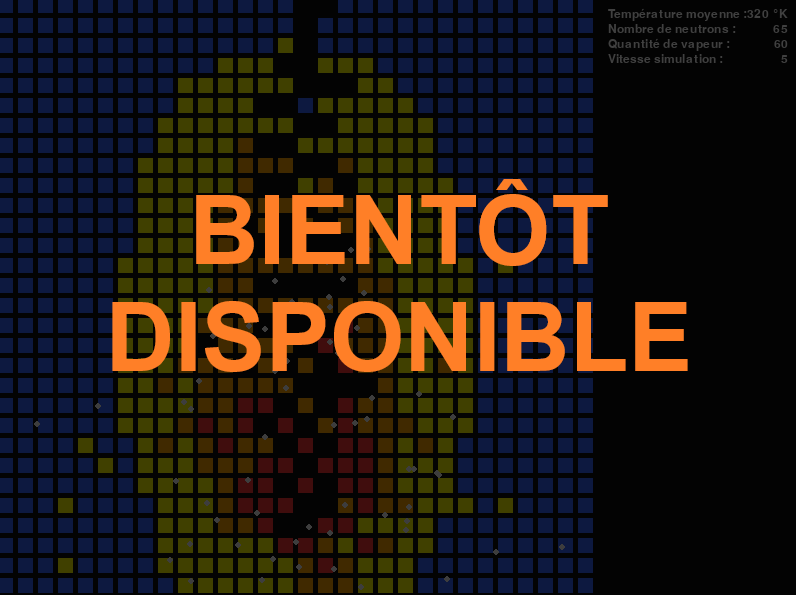
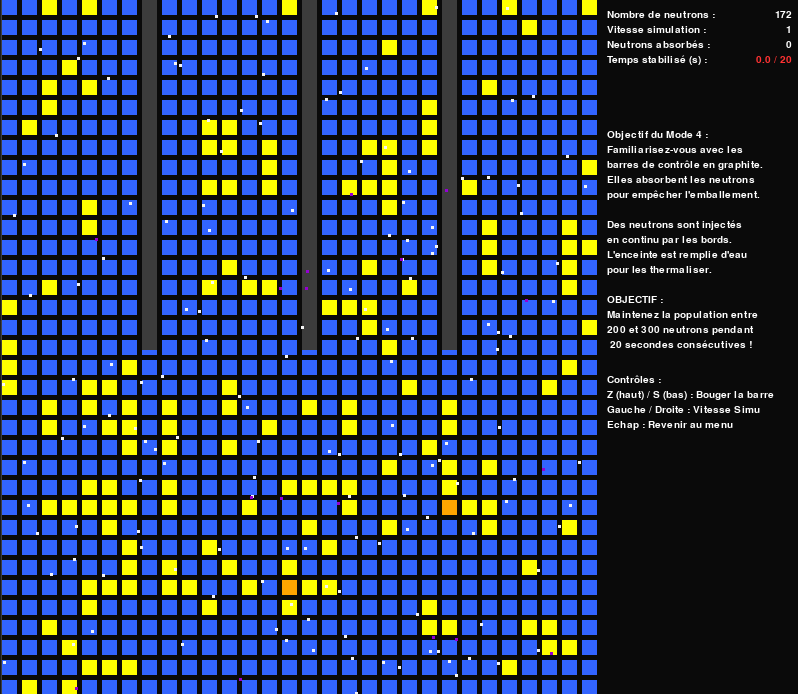
feat: add mode 4 image, change boundaries behaviour. Add control rods to mode 4

diff --git a/projnum-game/mode4.py b/projnum-game/mode4.py
@@ -114,6 +114,30 @@ class Mode4StateModel(ModeStateModel):
     water_grid: NDArray
     neutrons: Neutrons
     sim_speed: int
+    
+    # ===== Helpers =====
+    def raiseGasBubble(self):
+        for i in range(cols):
+            for j in range(rows):
+                if self.water_grid[i, j, 0] >= T_ev: #Si la case contient de la vapeur
+                    if (j > 0 and self.water_grid[i, j-1, 0] < T_ev):
+                        self.water_grid[i, j, 1] += 1 #On incrémente le compteur
+                        if (self.water_grid[i, j, 1] >= beta):
+                            tmp = self.water_grid[i, j-1, 0]
+                            self.water_grid[i, j-1, 0] = self.water_grid[i, j, 0]
+                            self.water_grid[i, j, 0] = tmp
+                            self.water_grid[i, j-1, 1] = 0
+                            self.water_grid[i, j, 1] = 0
+                    else:
+                        self.water_grid[i, j, 1] = 0
+
+    def handleHeatTransfer(self):
+        handleHeatTransfer(self.water_grid[:, :, 0]) #On gère le transfert de chaleur dans la grille
+
+        mask = (self.water_grid[:, :, 0] - dT_p) > T_min_p #On vérifie la condition, on stocke dans un masque bool
+        self.water_grid[:, :, 0][mask] -= dT_p #On enlève \Delta T quand c'est vérifié
+        # n_ref = np.sum(mask) #On compte le nombre d'éléments où c'est bon
+        # self.E_utile += n_ref*eta_p*m_eau*C_me*dT_p
 
     # ====== Main functions ======
 
@@ -131,17 +155,17 @@ class Mode4StateModel(ModeStateModel):
         #Paramètres de la barre de contrôle
         self.rod_w = cell_size - border
         self.rod_h = height
-        self.rod_x = (cols // 2) * cell_size #On la place au milieu de l'écran
-        self.rod_y = -height // 2 #On laisse la moitiée sortie au début
+        self.rod_x_positions = [
+            (cols // 4) * cell_size,
+            (cols // 2) * cell_size,
+            (3 * cols // 4) * cell_size
+        ]
+        self.rod_y = [-height//2, -height//2, -height//2] #On laisse la moitiée sortie au début
         self.abs_count = 0
 
         #Paramètres des sources de neutrons
-        self.n_per_sec = 50 #Neutrons générés par seconde par source
-        self.neutron_acc_left = 0
-        self.neutron_acc_right = 0
-        self.gen_dist = 100
-        self.gen_left_dist = self.rod_x - self.gen_dist
-        self.gen_right_dist = self.rod_x + self.gen_dist
+        self.n_per_sec = 140 #Neutrons générés par seconde par source
+        self.neutron_acc = 0
         
         #Timer de victoire
         self.timer = 0
@@ -156,31 +180,45 @@ class Mode4StateModel(ModeStateModel):
                     self.sim_speed = max(1, self.sim_speed - 1)
 
         keys = pygame.key.get_pressed()
+        if keys[pygame.K_a]:
+            self.rod_y[0] = max(-self.rod_h, self.rod_y[0] - v_rod)
+        if keys[pygame.K_q]:
+            self.rod_y[0] = min(0, self.rod_y[0] + v_rod)
+            
         if keys[pygame.K_z]:
-            self.rod_y = max(-self.rod_h, self.rod_y - v_rod) #Ne peut pas sortir plus haut que sa taille
+            self.rod_y[1] = max(-self.rod_h, self.rod_y[1] - v_rod)
         if keys[pygame.K_s]:
-            self.rod_y = min(0, self.rod_y + v_rod) #Ne peut pas descendre plus bas que le fond
+            self.rod_y[1] = min(0, self.rod_y[1] + v_rod)
+            
+        if keys[pygame.K_e]:
+            self.rod_y[2] = max(-self.rod_h, self.rod_y[2] - v_rod)
+        if keys[pygame.K_d]:
+            self.rod_y[2] = min(0, self.rod_y[2] + v_rod)
 
         for _ in range(self.sim_speed):
-            #Injection des neutrons aux extrémités gauche et droite
-            self.neutron_acc_left += self.n_per_sec * delta_t
-            self.neutron_acc_right += self.n_per_sec * delta_t
+            self.neutron_acc += self.n_per_sec * delta_t
 
-            while self.neutron_acc_left >= 1 :
-                self.neutrons.addFastNeutron(self.gen_left_dist, height // 2) #Injecté à gauche
-                self.neutron_acc_left -= 1
-                
-            while self.neutron_acc_right >= 1 :
-                self.neutrons.addFastNeutron(self.gen_right_dist, height // 2) #Injecté à droite
-                self.neutron_acc_right -= 1
+            while self.neutron_acc >= 1 :
+                posX = random.uniform(0, width - rightMenuSize)
+                posY = random.uniform(0, height)
+                self.neutrons.addNeutron(posX, posY) #Injecté à gauche
+                self.neutron_acc -= 1
 
-            self.neutrons.deplacerWithConfinment()
+            self.neutrons.deplacer()
 
+            # Intéraction des neutrons avec les cases d'eau
             interactNeutronsWithWater(self.water_grid[:, :, 0], self.neutrons)
+
+            # Transfert de chaleur entre les cases d'eau
+            self.handleHeatTransfer()
+
+            # Remontée des bulles de vapeur
+            self.raiseGasBubble()
             
             #Absorption par la barre de contrôle
-            rod_rect = pygame.Rect(self.rod_x, self.rod_y, self.rod_w, self.rod_h)
-            self.abs_count += interactNeutronsWithControlRod(self.neutrons, rod_rect)
+            for idx, rx in enumerate(self.rod_x_positions):
+                rod_rect = pygame.Rect(rx, self.rod_y[idx], self.rod_w, self.rod_h)
+                interactNeutronsWithControlRod(self.neutrons, rod_rect)
 
             #Condition de victoire : Maintenir entre 200 et 300 neutrons
             if 200 <= self.neutrons.nb_neutron <= 300:
@@ -191,20 +229,48 @@ class Mode4StateModel(ModeStateModel):
         self.rightMenu.computeMetrics(self.neutrons, self.sim_speed, self.timer, self.abs_count)
 
     def paint(self, screen):
+        # Affichage du menu de droite
         self.rightMenu.display_menu(screen)
 
+        # Affichage des cases d'eau
         for i in range(cols):
             for j in range(rows):
-                pygame.draw.rect(screen, bleu, (i * cell_size, j * cell_size, cell_size - border, cell_size - border))
+                if self.water_grid[i, j, 0] >= T_ev:  # Si la case contient de la vapeur
+                    color = noir
+                else:
+                    if self.water_grid[i, j, 0] < Palier1:
+                        color = bleu
+                    elif self.water_grid[i, j, 0] < Palier2:
+                        color = jaune
+                    elif self.water_grid[i, j, 0] < Palier3:
+                        color = orange
+                    elif self.water_grid[i, j, 0] < T_ev:
+                        color = rouge
+                pygame.draw.rect(
+                    screen,
+                    color,
+                    (
+                        i * cell_size,
+                        j * cell_size,
+                        cell_size - border,
+                        cell_size - border,
+                    ),
+                )
 
         # Affichage de la barre de contrôle
-        rod_rect = pygame.Rect(self.rod_x, self.rod_y, self.rod_w, self.rod_h)
-        pygame.draw.rect(screen, grisFonce, rod_rect)
+        for idx, rx in enumerate(self.rod_x_positions):
+            rod_rect = pygame.Rect(rx, self.rod_y[idx], self.rod_w, self.rod_h)
+            pygame.draw.rect(screen, grisFonce, rod_rect)
 
-        # Affichage des neutrons
+        # affichage des neutrons
         for i in range(self.neutrons.nb_neutron):
             color = violet if self.neutrons.v[i, 2] else blanc
-            pygame.draw.rect(screen, color, (int(self.neutrons.pos[i, 0]), int(self.neutrons.pos[i, 1]), 3, 3))
+            pygame.draw.rect(screen, 
+                             color, 
+                             (int(self.neutrons.pos[i, 0]), 
+                              int(self.neutrons.pos[i, 1]), 
+                              3, 
+                              3))
             
     def export_datas(self):
         pass

diff --git a/projnum-game/verifNeutrons3.py b/projnum-game/verifNeutrons3.py
@@ -1,0 +1,156 @@
+import pygame
+pygame.init()
+from numpy._typing import NDArray
+import random
+import pygame
+import numpy as np
+import matplotlib.pyplot as plt
+from models import *
+from physics import *
+from simpleRandom import *
+
+# Pygame initialisation
+screen = pygame.display.set_mode((width, height))
+pygame.display.set_caption("Vérification simulation neutrons")
+clock = pygame.time.Clock()
+running = True
+
+def paint(grid, water_grid, neutrons):
+    # Affichage des cases d'eau
+    for i in range(cols):
+        for j in range(rows):
+            if water_grid[i, j, 0] >= T_ev:  # Si la case contient de la vapeur
+                color = noir
+            else:
+                if water_grid[i, j, 0] < Palier1:
+                    color = bleu
+                elif water_grid[i, j, 0] < Palier2:
+                    color = jaune
+                elif water_grid[i, j, 0] < Palier3:
+                    color = orange
+                elif water_grid[i, j, 0] < T_ev:
+                    color = rouge
+            pygame.draw.rect(
+                screen,
+                color,
+                (
+                    i * cell_size,
+                    j * cell_size,
+                    cell_size - border,
+                    cell_size - border,
+                ),
+            )
+
+    # Affichage des éléments de la grille
+    for i in range(cols):
+        for j in range(rows):
+            if grid[i, j] == 0 or grid[i, j] == NON_FISSIBLE:  # Si la case ne contient rien ou est une case de réserve
+                color = grisVi
+            else:
+                if grid[i, j] == UR_235: #Si Ur
+                    color = vertUr
+                elif grid[i, j] == XE_135: #Si Xé
+                    color = violetXe
+            pygame.draw.circle(screen,color,cellTocoord(i, j, 0), int(0.8*cell_size//2))
+
+    # affichage des neutrons
+    for i in range(neutrons.nb_neutron):
+        color = violet if neutrons.v[i, 2] else blanc
+        pygame.draw.rect(screen, 
+                         color, 
+                         (int(neutrons.pos[i, 0]), 
+                          int(neutrons.pos[i, 1]), 
+                          3, 
+                          3))
+
+def raiseGasBubble(water_grid):
+    for i in range(cols):
+        for j in range(rows):
+            if water_grid[i, j, 0] >= T_ev: #Si la case contient de la vapeur
+                if (j > 0 and water_grid[i, j-1, 0] < T_ev):
+                    water_grid[i, j, 1] += 1 #On incrémente le compteur
+                    if (water_grid[i, j, 1] >= beta):
+                        tmp = water_grid[i, j-1, 0]
+                        water_grid[i, j-1, 0] = water_grid[i, j, 0]
+                        water_grid[i, j, 0] = tmp
+                        water_grid[i, j-1, 1] = 0
+                        water_grid[i, j, 1] = 0
+                else:
+                    water_grid[i, j, 1] = 0
+C_comb = 10
+grid = np.zeros((cols, rows))
+water_grid = np.zeros((cols, rows, 2))
+water_grid[:, :, 0] = CToK + 80  # Remplissage des températures
+
+n_comb = int(grid.size*C_comb/100) #Nombre de cases contenant du combustible
+for i in range(n_comb):
+    #On place les cases de combustible aléatoirement
+    x, y = random.randint(0, cols-1), random.randint(0, rows-1)
+    while grid[x, y] != NON_FISSIBLE: #Tant que la case n'est pas vide on cherche une autre position
+        x, y = random.randint(0, cols-1), random.randint(0, rows-1)
+    grid[x, y] = UR_235 #On place du combustible à cet emplacement
+
+neutrons = Neutrons() #Initialisation de la collection de neutrons
+
+nb = 0
+nbmax = 1000
+time: NDArray = np.zeros(nbmax);
+nbNeutron: NDArray = np.zeros(nbmax);
+nbVapor: NDArray = np.zeros(nbmax);
+tempMoyenne: NDArray = np.zeros(nbmax);
+neutrons = Neutrons()
+pos_neut_init = cellTocoord(cols//2, rows//2, 0) 
+for _ in range(30):
+    neutrons.addFastNeutron(pos_neut_init[0], pos_neut_init[1]) 
+
+ntemp = 0
+# Main loop
+while running and nb < nbmax:
+    screen.fill(noir)
+
+    events = pygame.event.get()
+    for event in events:
+        if event.type == pygame.QUIT or (event.type == pygame.KEYDOWN and event.key == pygame.K_ESCAPE):
+            running = False
+    time[nb] = nb*delta_t
+    nbNeutron[nb] = neutrons.nb_neutron
+    tempMoyenne[nb] = np.mean(water_grid[:, :, 0])
+    nbVapor[nb] = np.sum(water_grid[:, :, 0] >= T_ev)
+    neutrons.deplacerWithConfinment()
+    interactNeutronsWithWater(water_grid[:, :, 0], neutrons)
+    handleHeatTransfer(water_grid)
+    raiseGasBubble(water_grid)
+
+    interactNeutronsWithUrXe(neutrons, grid)
+    nb+=1
+    
+    paint(grid, water_grid, neutrons) 
+    pygame.display.flip()
+
+# Create plot
+fig, ax1 = plt.subplots()
+ax1.set_xlabel('Temps')
+ax1.set_ylabel('Nombre de neutrons', color='r')
+ax1.plot(time, nbNeutron, label='nombre de neutrons', color='r')
+ax1.tick_params(axis='y', labelcolor='r')
+# ax1.legend()
+
+# ax2 = ax1.twinx()
+# ax2.set_ylabel('Température moyenne')
+# ax2.plot(time, tempMoyenne, linestyle='--', label='température moyenne')
+# ax2.plot(time, np.ones_like(time)*T_ev, linestyle='--', label='température d\'ébullition')
+# ax2.legend()
+
+ax3 = ax1.twinx()
+ax3.set_ylabel('Quantité de vapeur', color='b')
+ax3.plot(time, nbVapor, linestyle='--', label='quantité de vapeur', color='b')
+ax3.tick_params(axis='y', labelcolor='b')
+# ax3.legend()
+
+# Add labels and title
+plt.title('Évolution du nombre de neutrons et de la vapeur en fonction du temps')
+plt.legend()
+
+# Show plot
+plt.show()
+pygame.quit()

diff --git a/projnum-game/mode5.py b/projnum-game/mode5.py
@@ -399,7 +399,7 @@ class Mode5StateModel(ModeStateModel):
         for _ in range(self.sim_speed):
             self.sim_time += delta_t #On incrémente le compteur de temps
     
-            removed_neut = self.neutrons.deplacerWithConfinment()
+            removed_neut = self.neutrons.deplacer()
             self.notInteract_count += removed_neut
             
             # Intéraction des neutrons avec les cases d'eau
@@ -410,7 +410,8 @@ class Mode5StateModel(ModeStateModel):
 
             # Remontée des bulles de vapeur
             self.raiseGasBubble()
-
+            
+            #Absorption par la barre de contrôle
             for idx, rx in enumerate(self.rod_x_positions):
                 rod_rect = pygame.Rect(rx, self.rod_y[idx], self.rod_w, self.rod_h)
                 interactNeutronsWithControlRod(self.neutrons, rod_rect)
@@ -490,6 +491,8 @@ class Mode5StateModel(ModeStateModel):
         for idx, rx in enumerate(self.rod_x_positions):
             rod_rect = pygame.Rect(rx, self.rod_y[idx], self.rod_w, self.rod_h)
             pygame.draw.rect(screen, grisFonce, rod_rect)
+            
+        # Affichage de la barre de contrôle
 
         # affichage des neutrons
         for i in range(self.neutrons.nb_neutron):

diff --git a/projnum-game/models.py b/projnum-game/models.py
@@ -40,6 +40,7 @@ vertUr = (52, 201, 36) #Vert pomme pour l'Uranium
 grisVi = (158, 158, 158) #Gris souris pour le vide
 violetXe = (121, 28, 248) #Indigo pour le Xénon
 grisFonce = (60, 60, 60) #Gris foncé pour la barre de contrôle
+grisClair = (160, 160, 160) #Gris foncé pour la barre de contrôle
 
 cell_size = 20 #Taille des cellules
 cols, rows = (width - rightMenuSize)//cell_size, height//cell_size

diff --git a/projnum-game/physics.py b/projnum-game/physics.py
@@ -237,7 +237,6 @@ def interactNeutronsWithControlRod(neutrons: Neutrons, rod_rect: pygame.Rect):
         if not neutrons.v[i, 2]:
             nx = neutrons.pos[i, 0]
             ny = neutrons.pos[i, 1]
-        
             # Si le centre du neutron est dans le rectangle de la barre
             if rod_rect.collidepoint(nx, ny):
                 neutrons.removeNeutron(i)
